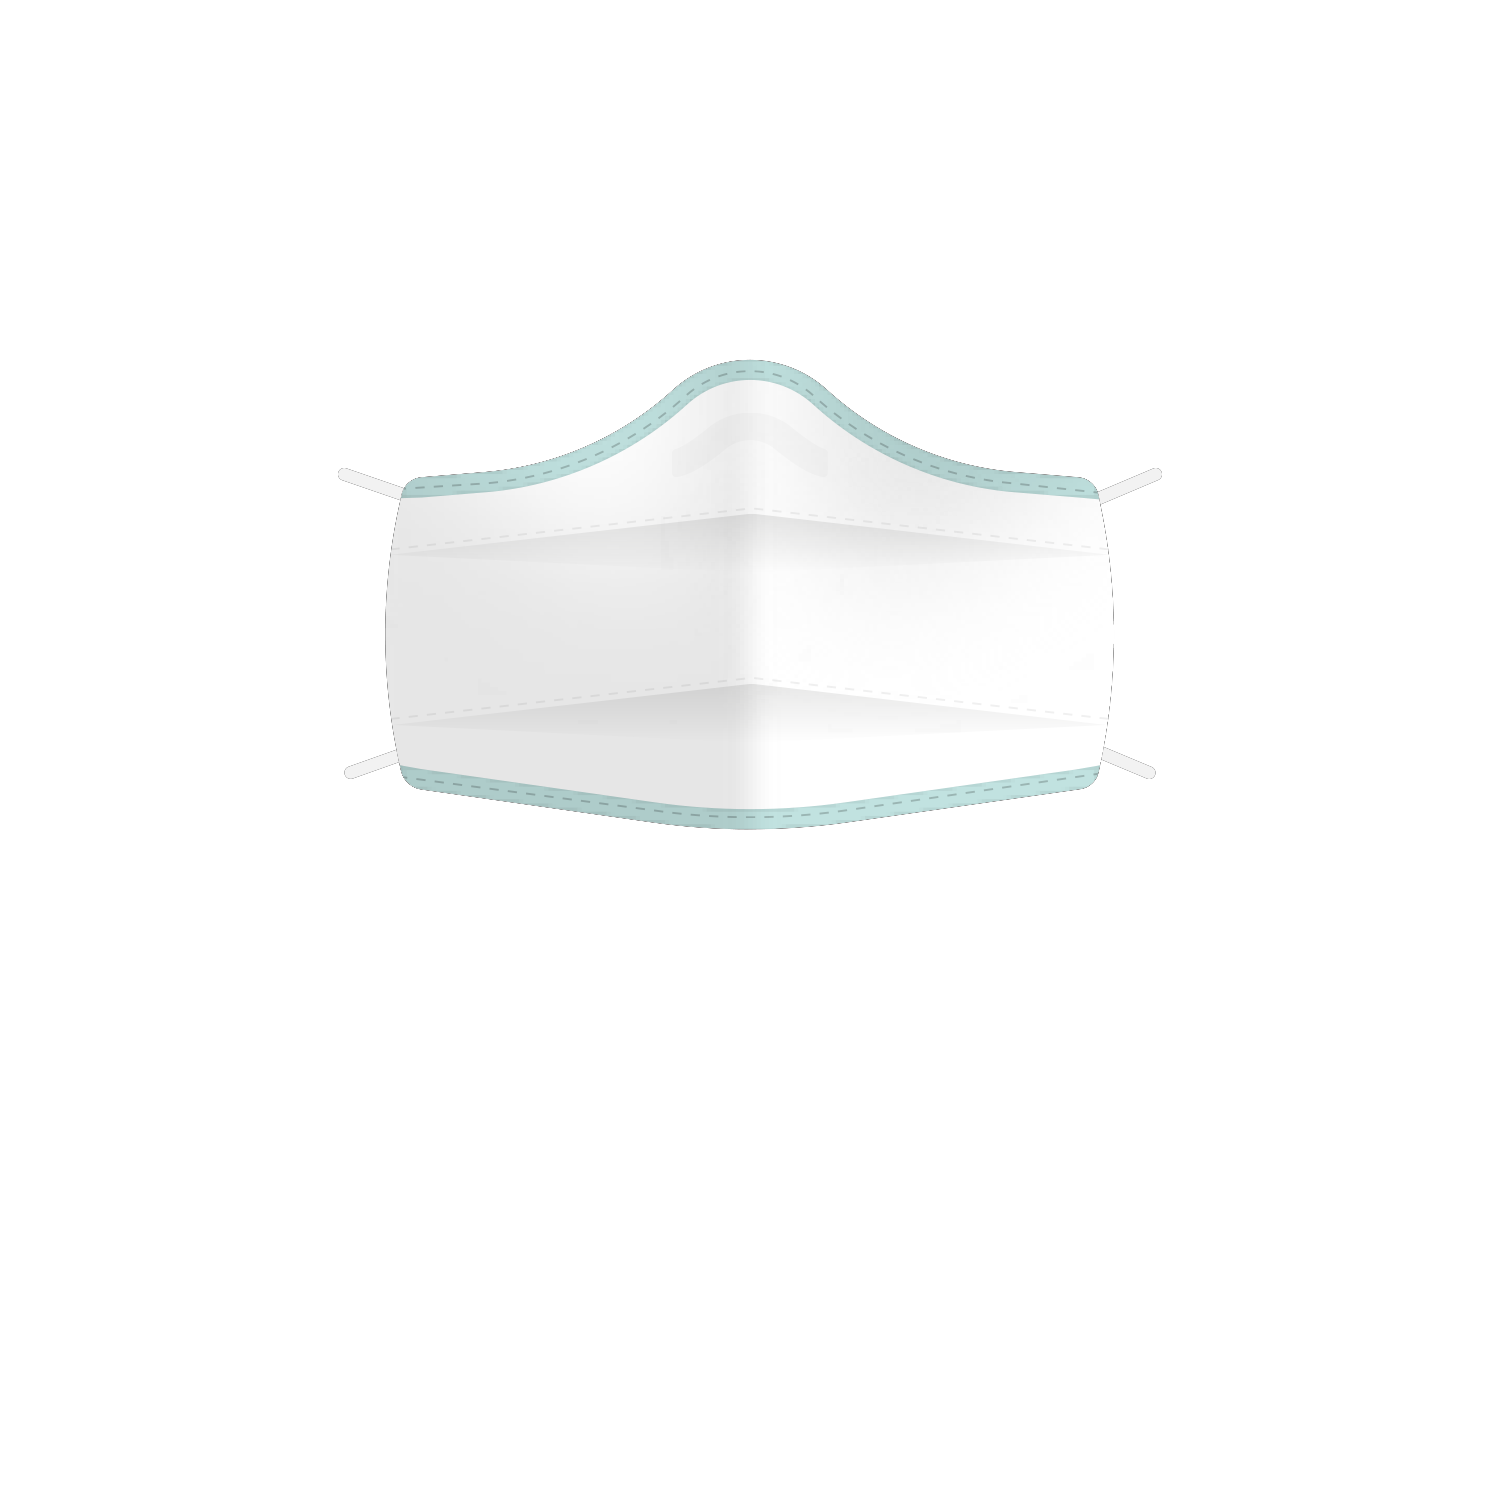
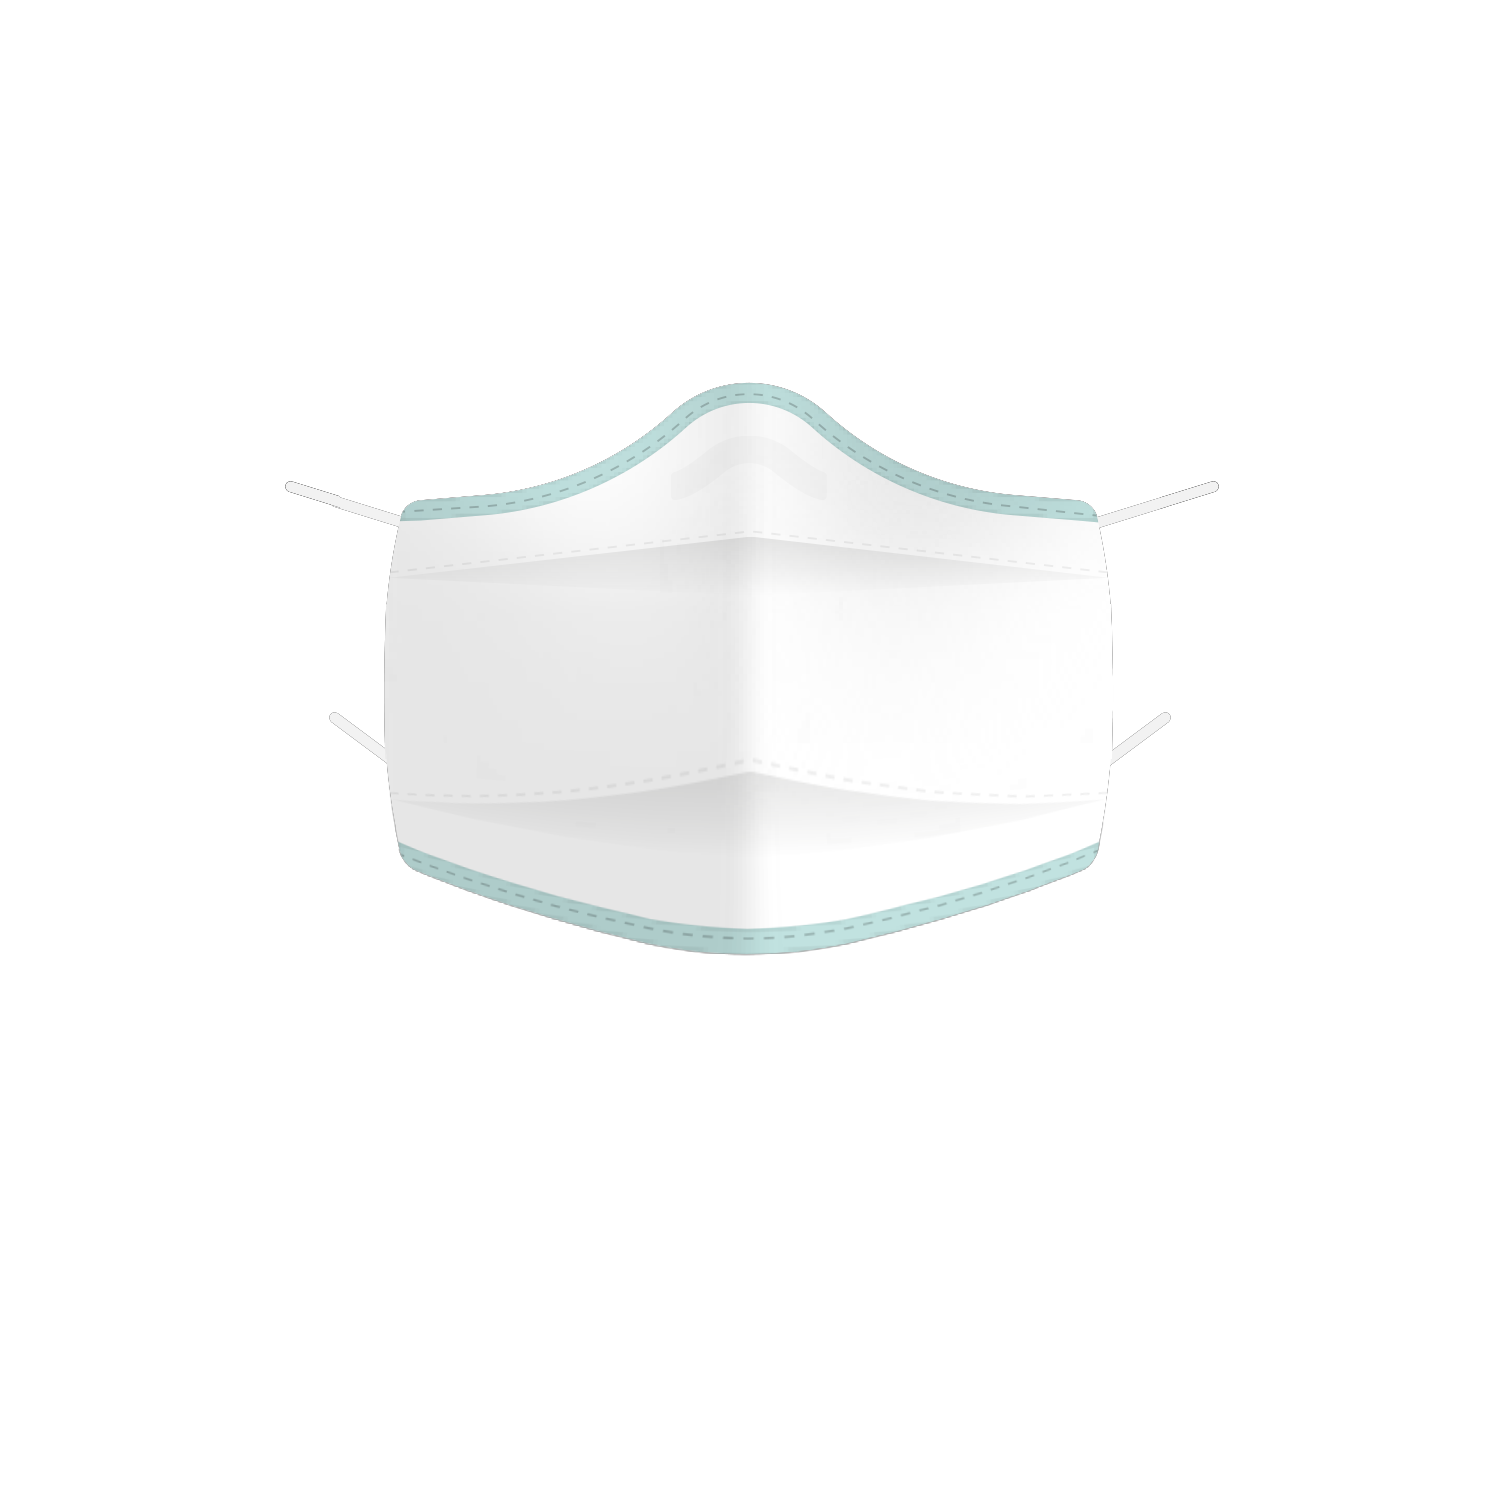
Improve Mask Image and Algorithm. Revert to lightweight version.

Changed region(s): [[0.2453, 0.46, 0.736, 0.644], [0.2453, 0.2147, 0.736, 0.368]]

diff --git a/mask_bandi.py b/mask_bandi.py
@@ -4,6 +4,7 @@ import os
 import time
 
 import cv2
+import dlib
 import face_alignment
 import numpy as np
 from skimage.transform import warp, PolynomialTransform
@@ -17,38 +18,65 @@ RIGHT_EAR_UPPER_MIDDLE = 15
 RIGHT_EAR_LOWER_MIDDLE = 14
 RIGHT_EAR_BOTTOM = 13
 NOSE_BOTTOM = 33
-NOSE_MIDDLE = 29
+NOSE_MIDDLE = 28
 NOSE_TOP = 27
 LIP = 57
 CHIN = 8
-CHIN_LEFT = 6
-CHIN_RIGHT = 10
+LEFT_CHIN = 5
+RIGHT_CHIN = 11
+LEFT_EYEBROW = 19
+RIGH_EYEBROW = 24
 
 MASK_BANDI_PATH = "./mask_bandi.png"
-MASK_BANDI_COORDINATES = [[345, 475], [355, 770], [1155, 475], [1145, 770],
-                          [750, 290], [750, 870]]
+MASK_BANDI_COORDINATES = [[351, 505], [335, 717], [1149, 505], [1165, 717],
+                          [750, 375], [750, 550],
+                          [750, 960], [430, 880], [1070, 880],
+                          [560, 310], [940, 310]]
 MASK_BANDI_CORRESPONDING = [LEFT_EAR_TOP, LEFT_EAR_BOTTOM, RIGHT_EAR_TOP, RIGHT_EAR_BOTTOM,
-                            NOSE_TOP, CHIN]
+                            NOSE_MIDDLE, NOSE_BOTTOM,
+                            CHIN, LEFT_CHIN, RIGHT_CHIN,
+                            LEFT_EYEBROW, RIGH_EYEBROW]
 
 DECORATION_PATH = "./circle.png"
 
+DLIB_PREDICTOR_PATH = "./shape_predictor_68_face_landmarks.dat"
+
 
 class MaskBandi:
-    def __init__(self, mask_images, mask_src_coordinates, mask_dst_coordinates,
-                 decoration_img=None, debug=False):
+    def __init__(self, mask_images, mask_src_coordinates, mask_dst_coordinates, decoration_img=None,
+                 face_detection_method="fa", debug=False):
         self.mask_images = mask_images
         self.mask_src_coordinates = mask_src_coordinates
         self.mask_dst_coordinates = mask_dst_coordinates
         self.decoration_img = decoration_img
+        self.face_detection_method = face_detection_method
         self.debug = debug
 
-        self.face_alignment = face_alignment.FaceAlignment(face_alignment.LandmarksType._2D,
-                                                           device='cpu', flip_input=False)
+        if self.face_detection_method == "fa":
+            self.face_alignment = face_alignment.FaceAlignment(face_alignment.LandmarksType._2D,
+                                                               device='cpu', flip_input=False)
+        elif self.face_detection_method == "dlib":
+            self.detector = dlib.get_frontal_face_detector()
+            self.predictor = dlib.shape_predictor(DLIB_PREDICTOR_PATH)
+
+    def get_face_landmarks(self, img):
+        if self.face_detection_method == "fa":
+            faces = self.face_alignment.get_landmarks_from_image(img)
+            if faces is None:
+                return []
+            return faces
+        elif self.face_detection_method == "dlib":
+            faces = []
+            detected_faces = self.detector(img, 1)
+            for face in detected_faces:
+                face_shape = self.predictor(img, face)
+                faces.append(np.asarray([(face_shape.part(i).x, face_shape.part(i).y)
+                                         for i in range(face_shape.num_parts)]))
+            return faces
+        return []
 
     def add_mask(self, img):
-        faces = self.face_alignment.get_landmarks_from_image(img)
-        if faces is None:
-            return
+        faces = self.get_face_landmarks(img)
 
         for face in faces:
             for mask_img, mask_src_cor, mask_dst_cor in \
@@ -60,10 +88,10 @@ class MaskBandi:
                 transform.estimate(dst_pts, src_pts, order=2)
 
                 mask_aligned = warp(mask_img, transform, output_shape=(img.shape[0], img.shape[1])) * 255
-                mask_aligned[:int(face[:, 1].min()), :, :] = 0
-                mask_aligned[int(face[:, 1].max()):, :, :] = 0
-                mask_aligned[:, :int(face[:, 0].min()), :] = 0
-                mask_aligned[:, int(face[:, 0].max()):, :] = 0
+                mask_aligned[:int(face[:, 1].min() - 5), :, :] = 0
+                mask_aligned[int(face[:, 1].max() + 5):, :, :] = 0
+                mask_aligned[:, :int(face[:, 0].min() - 5), :] = 0
+                mask_aligned[:, int(face[:, 0].max() + 5):, :] = 0
 
                 alpha = mask_aligned[:, :, [3]] / 255.
                 img = (img * (1 - alpha)) + mask_aligned[:, :, :3] * alpha
@@ -113,7 +141,13 @@ def main(source, input_dir=None, output_dir=None, decorate=False, method=1, debu
                                mask_src_coordinates=[MASK_BANDI_COORDINATES],
                                mask_dst_coordinates=[MASK_BANDI_CORRESPONDING],
                                decoration_img=cv2.imread(DECORATION_PATH, cv2.IMREAD_UNCHANGED),
-                               debug=debug)
+                               face_detection_method="fa", debug=debug)
+    elif method == 2:
+        mask_bandi = MaskBandi(mask_images=[cv2.imread(MASK_BANDI_PATH, cv2.IMREAD_UNCHANGED)],
+                               mask_src_coordinates=[MASK_BANDI_COORDINATES],
+                               mask_dst_coordinates=[MASK_BANDI_CORRESPONDING],
+                               decoration_img=cv2.imread(DECORATION_PATH, cv2.IMREAD_UNCHANGED),
+                               face_detection_method="dlib", debug=debug)
     if source == "webcam":
         webcam = cv2.VideoCapture(0)
 

diff --git a/main.py b/main.py
@@ -82,7 +82,8 @@ def use_my_avatar(update: Update, context: CallbackContext):
     image.download(image_file_name)
 
     try:
-        mask_bandi.main(source="file", input_dir=image_file_name, output_dir=image_file_name_output, decorate=True)
+        mask_bandi.main(source="file", input_dir=image_file_name, output_dir=image_file_name_output,
+                        decorate=True, method=2)
     except:
         update.message.reply_text("امکان ماسک نصب کردن برای تصویر پروفایل شما وجود ندارد." + resend_message)
         return
